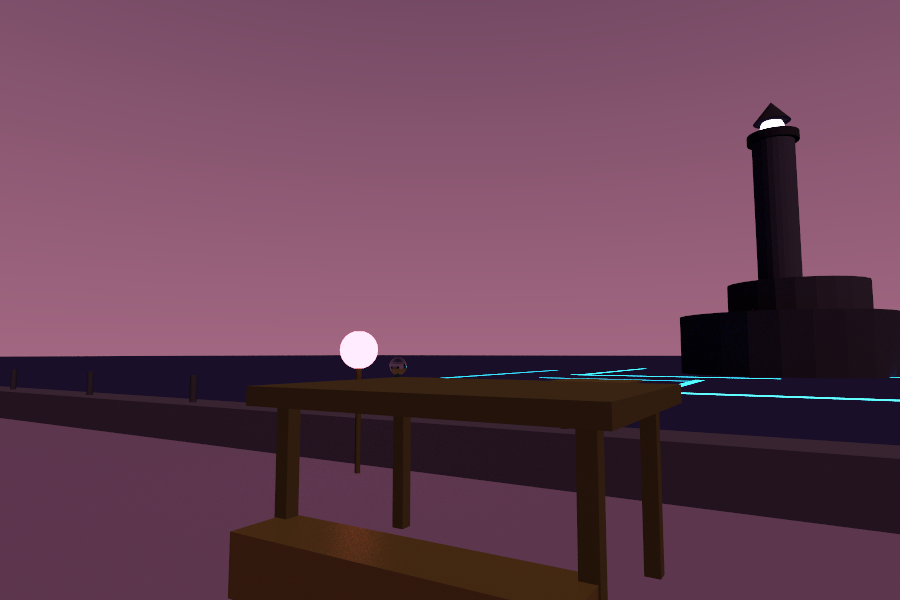
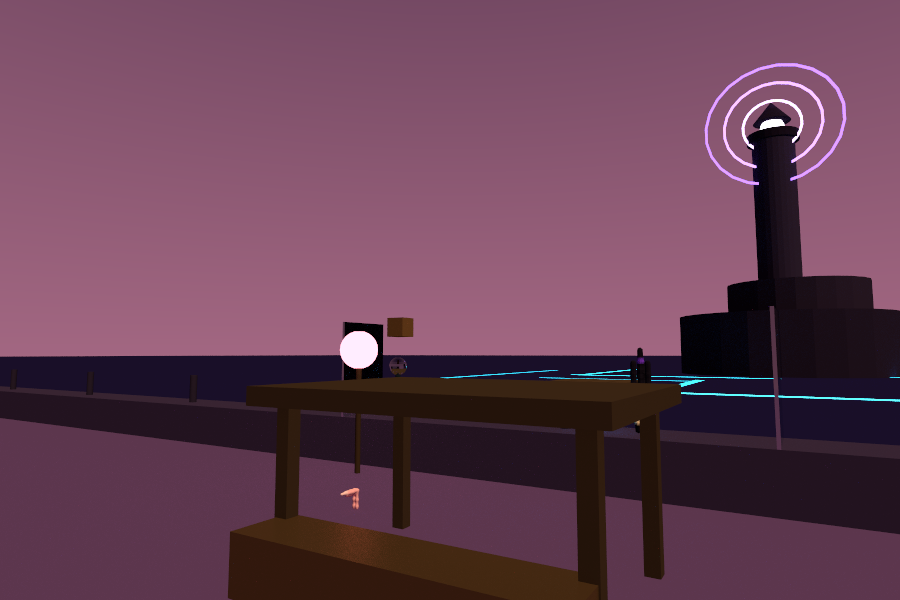
AETHER FIX PASS — shadow-review findings F1–F9 returned to the builder
F1 skip-window exactness UNCONDITIONAL (integrator.wgsl): medium_optical_depth
+ medium_single_scatter widen [s_lo,s_hi] one step each side (clamped 0..n-1).
Excluded centers now sit >½-step outside the density box beyond any ulp — the
bit-identity to the full march no longer depends on empty boundary voxels. F1
proven byte-identical in isolation (WGSL-only render md5 == pre) and by the
medium parity ordeals (gpu-vs-cpu mad 0.000022 / 0.000015, unchanged).

F6 slab-test NaN guard (medium_box_range): nudge exactly-zero d components to
1e-30 so an axis-parallel ray on a face plane yields finite ±1e30 bounds, never
0·∞ NaN into the impl-defined min/max.

F2 dominance test replaces frozen reach literal (a2_steam.rs): select_medium_light
now picks the emitter over the sun per-candidate iff d² < I/sun.intensity
(I = emission·πr², both already in scope). fallback_reach=1.47 deleted. Sun still
binds for Naruko (asserted).

F3 mid-column derived from height (a2_steam.rs): plume light-selection point y
= counter_top_y + PLUME_HEIGHT/2, not the stale +1.7.

F8 plume base x/z derived from the stall vessel: new top_flat_surface_center
returns the winning surface's [center_x, top_y, center_z]; base = surface xz
(−1,25.0) instead of invented (−1,25.6).

F9 grid dims derived from the column: dims/origin wrap [±1.4·radius, height] +
3-voxel rim from PLUME_HEIGHT/PLUME_RADIUS, replacing hand-fit [26,36,26].

F5 g=0.4 relabeled an honest forward-scatter LOOK dial (no false similarity-theory
[…]

diff --git a/packages/scrying-glass/examples/a2_steam.rs b/packages/scrying-glass/examples/a2_steam.rs
@@ -30,8 +30,17 @@ use scrying_glass::integrator::{
 };
 use scrying_glass::scene::{
     Camera, EmissiveSource, RenderScene, SceneParameters, SunDefaults, SunLight, emissive_sources,
-    top_flat_surface_y,
+    top_flat_surface_center,
 };
+
+// Plume geometry dials (documented look choices; only the LIGHT and the GROUND
+// bind to the realm). Height and radius drive BOTH the density column AND the
+// grid that bounds it (see `steam_medium`), so the box can never be hand-fitted
+// out of sync with the column it wraps.
+const PLUME_HEIGHT: f64 = 4.2;
+const PLUME_RADIUS: f64 = 0.85;
+const PLUME_PEAK: f64 = 1.0;
+const PLUME_TURBULENCE: f64 = 0.7;
 
 /// Naruko scene parameters (mirrors the window defaults in `main.rs` — the same
 /// realm a player boots). Nothing here is hardcoded into the engine; these are
@@ -64,7 +73,7 @@ fn naruko_params() -> SceneParameters {
 /// LIGHT are derived from the realm, never invented (A2 true binding + clip):
 ///
 /// - `counter_top_y` is the world-space top of the stall's serving surface
-///   (`top_flat_surface_y`) — the plume's y-min sits exactly there, so the
+///   (`top_flat_surface_center`) — the plume's y-min sits exactly there, so the
 ///   column rises FROM the counter instead of clipping down through it.
 /// - `light` is a real emitter read from the realm (`emissive_sources`): its
 ///   world position and colour bind the medium's in-scatter light, and its
@@ -91,41 +100,50 @@ struct BoundLight {
 /// read from the world; nothing is invented. The nearest emitter is bound
 /// because it is the light that actually sits with the stall and back-lights
 /// its steam toward a viewer (forward scatter), the way a night stall reads.
-/// `fallback_reach` (world units) is how near an emitter must be to be chosen
-/// over the sun — a documented dial, not a hidden constant.
+///
+/// The choice is a per-candidate PHYSICAL dominance test, not a tuned distance:
+/// a point emitter of radiant intensity `I` (its emission radiance × projected
+/// area πr²) delivers irradiance `I / d²` at the plume, while the sun delivers
+/// `sun.intensity`. The emitter out-lights the sun — and therefore owns the
+/// steam — exactly inside `d² < I / sun.intensity`. Both quantities are already
+/// in scope (`emission_intensity·π·r²` per candidate, `sun.intensity`); there is
+/// no frozen reach literal.
 fn select_medium_light(
     sources: &[EmissiveSource],
     sun: &SunLight,
     emission_intensity: f32,
     plume_center: [f32; 3],
-    fallback_reach: f32,
 ) -> BoundLight {
     let nearest = sources.iter().min_by(|a, b| {
         let da = dist2(a.position, plume_center);
         let db = dist2(b.position, plume_center);
         da.total_cmp(&db)
     });
-    match nearest {
-        Some(source) if dist2(source.position, plume_center).sqrt() <= fallback_reach => {
-            BoundLight {
+    if let Some(source) = nearest {
+        // Radiant intensity DERIVED from the real emitter: the world's
+        // emission-radiance dial × the emitter's emitting area (πr²).
+        let emitter_intensity = emission_intensity * PI * source.radius * source.radius;
+        let d2 = dist2(source.position, plume_center);
+        // Point-source irradiance I/d² beats the sun's irradiance iff
+        // d² < I / sun.intensity — the exact dominance boundary, per candidate.
+        if d2 < emitter_intensity / sun.intensity {
+            return BoundLight {
                 light: MediumLightGpu::Point {
                     position: source.position,
                 },
                 color: source.color,
-                // Radiant intensity DERIVED from the real emitter: the world's
-                // emission-radiance dial × the emitter's emitting area (πr²).
-                intensity: emission_intensity * PI * source.radius * source.radius,
+                intensity: emitter_intensity,
                 label: source.id.clone(),
-            }
+            };
         }
-        _ => BoundLight {
-            light: MediumLightGpu::Directional {
-                to_light: sun.direction,
-            },
-            color: sun.color,
-            intensity: sun.intensity,
-            label: "sun".into(),
+    }
+    BoundLight {
+        light: MediumLightGpu::Directional {
+            to_light: sun.direction,
         },
+        color: sun.color,
+        intensity: sun.intensity,
+        label: "sun".into(),
     }
 }
 
@@ -133,36 +151,56 @@ fn dist2(a: [f32; 3], b: [f32; 3]) -> f32 {
     (a[0] - b[0]).powi(2) + (a[1] - b[1]).powi(2) + (a[2] - b[2]).powi(2)
 }
 
-fn steam_medium(bound: &BoundLight, counter_top_y: f32) -> MediumGpu {
-    // The plume is grounded ON the counter surface (derived), rising over a
-    // documented height. Base radius and turbulence are steam dials.
-    let plume_height = 4.2_f64;
+fn steam_medium(bound: &BoundLight, base: [f32; 3]) -> MediumGpu {
+    // The plume is grounded ON the stall's serving surface: `base` is
+    // [surface_center_x, surface_top_y, surface_center_z], all derived from the
+    // realm's geometry (`top_flat_surface_center`) — the column rises from the
+    // real footprint, not an invented x/z. Height/radius/turbulence are dials.
+    let plume_height = PLUME_HEIGHT;
     let column = SteamColumn {
-        base: aether::vec3(-1.0, counter_top_y as f64, 25.6),
+        base: aether::vec3(base[0] as f64, base[1] as f64, base[2] as f64),
         height: plume_height,
-        radius: 0.85,
-        peak: 1.0,
-        turbulence: 0.7,
+        radius: PLUME_RADIUS,
+        peak: PLUME_PEAK,
+        turbulence: PLUME_TURBULENCE,
         ..SteamColumn::default()
     };
     // Rasterize into the grid the GPU uploads (the SAME artifact the CPU marches).
-    // The grid's y-MIN is the counter surface — nothing exists below it (clip).
+    // The grid's y-MIN is the serving surface — nothing exists below it (clip).
+    // Grid dims/origin are DERIVED from the column's own reach, never hand-fit:
+    // SteamColumn::density widens to r*(0.6+0.8)=1.4*radius at the top and is
+    // EXACTLY zero beyond that radius and above `height`, so the box need only
+    // wrap [±1.4*radius, height] plus a few-voxel empty rim. The rim keeps the
+    // boundary voxels at density 0, which is also what makes the shader's
+    // empty-space skip-window trivially exact at the faces.
     let vsize = 0.12;
-    let dims = [26usize, 36, 26];
-    let origin = aether::vec3(-2.5, counter_top_y as f64, 24.1);
+    let half_reach = 1.4 * PLUME_RADIUS; // max lateral density radius (at the top)
+    let margin = 3.0 * vsize; // three empty voxels of rim on every open face
+    let span_xz = 2.0 * (half_reach + margin);
+    let span_y = plume_height + margin; // y-min clips at the surface (no bottom rim)
+    let nx = (span_xz / vsize).ceil() as usize;
+    let ny = (span_y / vsize).ceil() as usize;
+    let dims = [nx, ny, nx];
+    let origin = aether::vec3(
+        base[0] as f64 - half_reach - margin,
+        base[1] as f64,
+        base[2] as f64 - half_reach - margin,
+    );
     let grid = DensityGrid::rasterize(dims, vsize, origin, &column);
 
     // Optics: a THIN translucent veil, near-pure scattering (water droplets
-    // absorb almost nothing: albedo ≈ 0.999). Base-center optical depth ≈ 0.5
-    // (T ≈ 0.6) — the dusk sky shows THROUGH the wisp as a mauve dimming
-    // instead of a black smokestack, which is what real stall steam at 9 m
-    // from a modest lantern is: in-scatter (intensity/d² ≈ 0.03) can never
-    // outshine the sky it occludes, so readability comes from translucency,
-    // wispy structure, and a warm tint near the base. g = 0.4 is the EFFECTIVE
-    // phase: droplet HG g ≈ 0.8 isotropized by multiple scattering (similarity
-    // theory, g' < g), which a single-scatter march must fold in — and it
-    // hands the side-lit orbit view its share of the lantern. Never a boosted
-    // light; the veil is as bright as the physics allows.
+    // absorb almost nothing: albedo σ_s/σ_t = 1.5/1.501 ≈ 0.999). Base-center
+    // optical depth ≈ 0.5 ⇒ transmittance T = exp(-0.5) ≈ 0.61 — the dusk sky
+    // shows THROUGH the wisp as a mauve dimming instead of a black smokestack,
+    // which is what real stall steam at ~9 m from a modest lantern is:
+    // in-scatter (intensity/d² ≈ 0.03) can never outshine the sky it occludes,
+    // so readability comes from translucency, wispy structure, and a warm tint
+    // near the base. g = 0.4 is a forward-scatter LOOK DIAL, not a derived
+    // value: real water-droplet HG g ≈ 0.8, dialed down by hand as a stand-in
+    // for the forward-bias softening that multiple scattering produces — a
+    // single-scatter march cannot reproduce that, so this is an honest artistic
+    // choice (it also hands the side-lit orbit view its share of the lantern).
+    // Never a boosted light; the veil is as bright as the physics allows.
     let optics = HomogeneousMedium::new(0.001, 1.5, 0.4);
     let d = grid.dims();
     let o = grid.world_origin();
@@ -276,34 +314,44 @@ fn main() {
     // A2 binding + clip: read the real emitters + the stall's serving surface
     // from the realm BEFORE the render scene consumes the world.
     let sources = emissive_sources(&core.world).expect("emissive sources");
-    let counter_top_y = top_flat_surface_y(&core.world, "naruko_stall_massing")
+    // The stall's serving surface, wholly derived: [center_x, top_y, center_z].
+    // The plume grounds on top_y at the surface's real footprint (center_x/z) —
+    // no invented horizontal coordinates.
+    let surface = top_flat_surface_center(&core.world, "naruko_stall_massing")
         .expect("stall surface")
         .expect("the stall has a flat serving surface");
+    let counter_top_y = surface[1];
+    let plume_base = [surface[0], counter_top_y, surface[2]];
 
     let scene =
         RenderScene::from_ecs(std::mem::take(&mut core.world), &params).expect("render scene");
 
-    // The plume centre (its base is grounded on the counter; the light selection
-    // uses the mid-column point).
-    let plume_center = [-1.0, counter_top_y + 1.7, 25.6];
-    // An emitter owns the steam only where it OUT-LIGHTS the sun: a point
-    // source of intensity I beats the sun's irradiance (sun_intensity) inside
-    // d < sqrt(I / sun_intensity). Derived for the stall lantern (I = 2.376,
-    // sun 1.1): sqrt(2.376 / 1.1) = 1.47 m. The lantern sits ~9 m from the
-    // plume, where its irradiance is I/d² ≈ 0.03 — 3% of the sun's — so the
-    // honest dominant illuminant for this open-air plume is the SUN (derived,
-    // not chosen); the lantern would own steam rising from its own sphere.
-    let fallback_reach = 1.47;
+    // The plume's MID-COLUMN point (light selection samples here): its base is
+    // grounded on the surface, so the mid is base.y + height/2 — derived from
+    // the SAME height dial the column uses, never a stale offset.
+    let plume_mid_y = counter_top_y + (PLUME_HEIGHT / 2.0) as f32;
+    let plume_center = [plume_base[0], plume_mid_y, plume_base[2]];
+    // An emitter owns the steam only where it OUT-LIGHTS the sun (per-candidate
+    // d² < I / sun.intensity, evaluated in select_medium_light). For the stall
+    // lantern (I = emission·πr² ≈ 2.4, sun 1.1) the threshold is d² ≈ 2.2 while
+    // the lantern sits ~9 m off (d² ≈ 81), so its irradiance I/d² ≈ 0.03 is 3%
+    // of the sun's — the honest dominant illuminant for this open-air plume is
+    // the SUN (derived, not chosen); the lantern would own steam from its own
+    // sphere. Asserted below so a realm change that flips the binding is loud.
     let bound = select_medium_light(
         &sources,
         &scene.sun,
         params.emission_intensity,
         plume_center,
-        fallback_reach,
     );
     eprintln!(
-        "[a2] bound light = {:?}  colour {:?}  intensity {:.3}  |  counter top y = {:.2}",
-        bound.label, bound.color, bound.intensity, counter_top_y
+        "[a2] bound light = {:?}  colour {:?}  intensity {:.3}  |  surface center = [{:.2}, {:.2}, {:.2}]",
+        bound.label, bound.color, bound.intensity, surface[0], surface[1], surface[2]
+    );
+    assert_eq!(
+        bound.label, "sun",
+        "the open-air Naruko plume is sun-dominated (lantern I/d² ≈ 3% of the sun); \
+         the binding must be the SUN unless the realm's emitters/geometry changed"
     );
 
     // Static + dynamic geometry into one BVH (as the window does).
@@ -312,7 +360,7 @@ fn main() {
     let bvh = Bvh::build(&tris, &BvhParams::default());
     eprintln!("[a2] naruko: {} leaf triangles", tris.len());
 
-    let medium = steam_medium(&bound, counter_top_y);
+    let medium = steam_medium(&bound, plume_base);
 
     let (w, h) = (900u32, 600u32);
     let frames = 40u32;
@@ -326,7 +374,9 @@ fn main() {
     let exposure = 1.0;
 
     // Front three-quarter view: the stall with the plume rising above its roof
-    // against the night sky and distant city.
+    // against the night sky and distant city. The look target is an authored
+    // FRAMING choice (eye + aim), not a physical derivation — it composes the
+    // shot over the stall, independent of the plume's derived base.
     let cam_front = camera_at([3.5, 3.4, 33.0], [-1.0, 4.2, 25.6], 55.0);
     // Orbit: the other shoulder, same plume.
     let cam_orbit = camera_at([-6.5, 3.6, 32.0], [-1.0, 4.2, 25.6], 55.0);
@@ -373,7 +423,7 @@ fn main() {
     // march cost; (no_shadow - off) ≈ primary march cost. Honest numbers, not feel.
     let medium_noshadow = MediumGpu {
         shadow_steps: 1,
-        ..steam_medium(&bound, counter_top_y)
+        ..steam_medium(&bound, plume_base)
     };
     let (_img_ns, ms_noshadow) = render(
         &device,

diff --git a/packages/scrying-glass/src/scene.rs b/packages/scrying-glass/src/scene.rs
@@ -1305,6 +1305,50 @@ pub fn top_flat_surface_y(world: &EcsWorld, gaia_id: &str) -> Result<Option<f32>
     Ok(best)
 }
 
+/// The world-space CENTRE of the entity's highest flat serving surface, as
+/// `[center_x, top_y, center_z]` — the same part [`top_flat_surface_y`] selects
+/// (max top), but returning its horizontal centre too so a caller can GROUND
+/// something on the surface (its `top_y`) at the surface's real footprint
+/// (`center_x`/`center_z`) instead of inventing horizontal coordinates.
+pub fn top_flat_surface_center(
+    world: &EcsWorld,
+    gaia_id: &str,
+) -> Result<Option<[f32; 3]>, String> {
+    let (Some(transform_id), Some(mesh_id)) =
+        (world.component_id("transform"), world.component_id("mesh"))
+    else {
+        return Ok(None);
+    };
+    let Some(entity) = world.entity_for_gaia(gaia_id) else {
+        return Ok(None);
+    };
+    let transform: Transform = serde_json::from_value(world.get_component(entity, transform_id)?)
+        .map_err(|error| format!("entity {gaia_id:?} transform: {error}"))?;
+    let mesh: Mesh = serde_json::from_value(world.get_component(entity, mesh_id)?)
+        .map_err(|error| format!("entity {gaia_id:?} mesh: {error}"))?;
+    let parts = parts_of(mesh).map_err(|error| format!("entity {gaia_id:?} mesh: {error}"))?;
+    let entity_pos = vec3(transform.position.as_ref()).unwrap_or(Vec3::ZERO);
+    let mut best: Option<(f32, [f32; 3])> = None;
+    for part in &parts {
+        if part.shape.as_deref().unwrap_or("box") != "box" {
+            continue;
+        }
+        let Some(size) = vec3(part.size.as_ref()) else {
+            continue;
+        };
+        if size.y > size.x.min(size.z) {
+            continue;
+        }
+        let part_pos = vec3(part.position.as_ref()).unwrap_or(Vec3::ZERO);
+        let top = entity_pos.y + part_pos.y + size.y * 0.5;
+        let center = [entity_pos.x + part_pos.x, top, entity_pos.z + part_pos.z];
+        if best.is_none_or(|(b, _)| top > b) {
+            best = Some((top, center));
+        }
+    }
+    Ok(best.map(|(_, center)| center))
+}
+
 /// Project a cluster's LOD error through its group's SHARED bounds sphere to a
 /// screen-space error (~pixels). Error 0 (leaves) stays 0. Distance metric
 /// (Rite III); hardware visibility lands later.